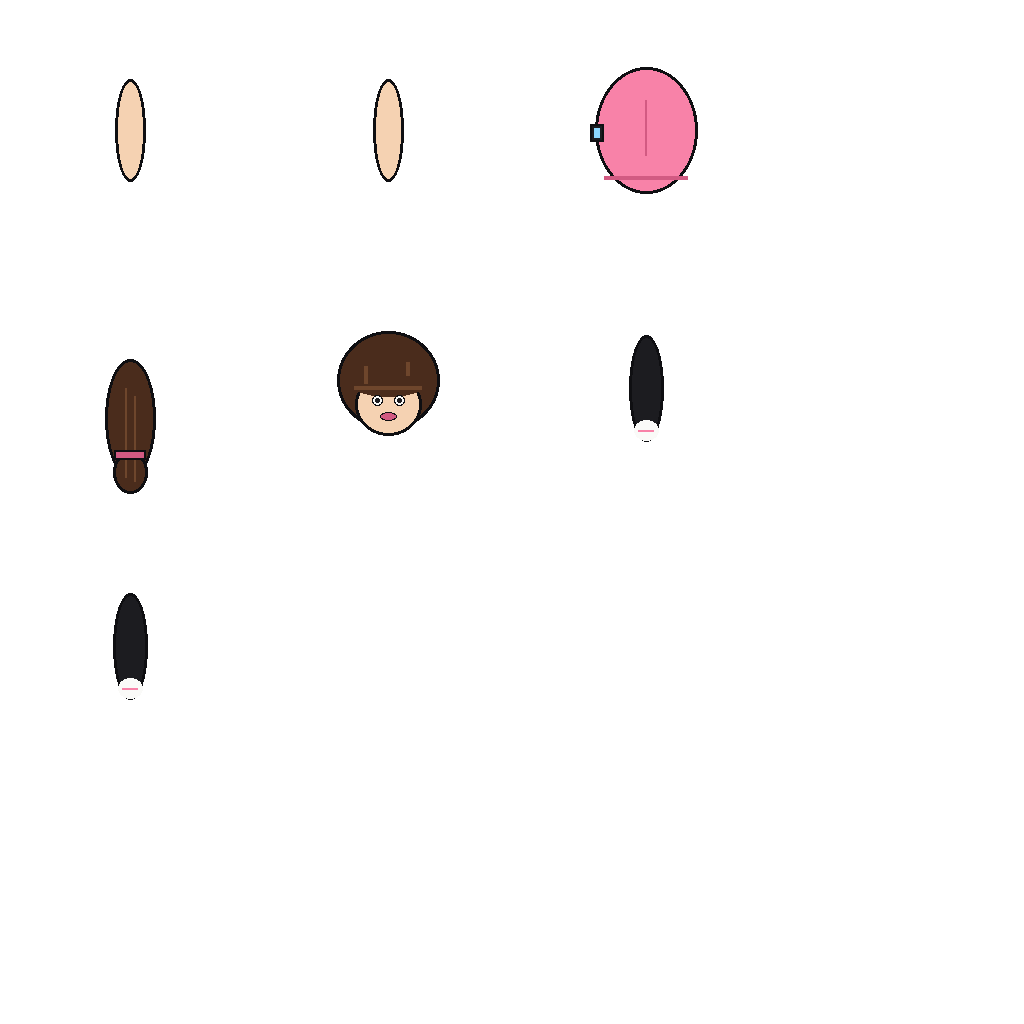
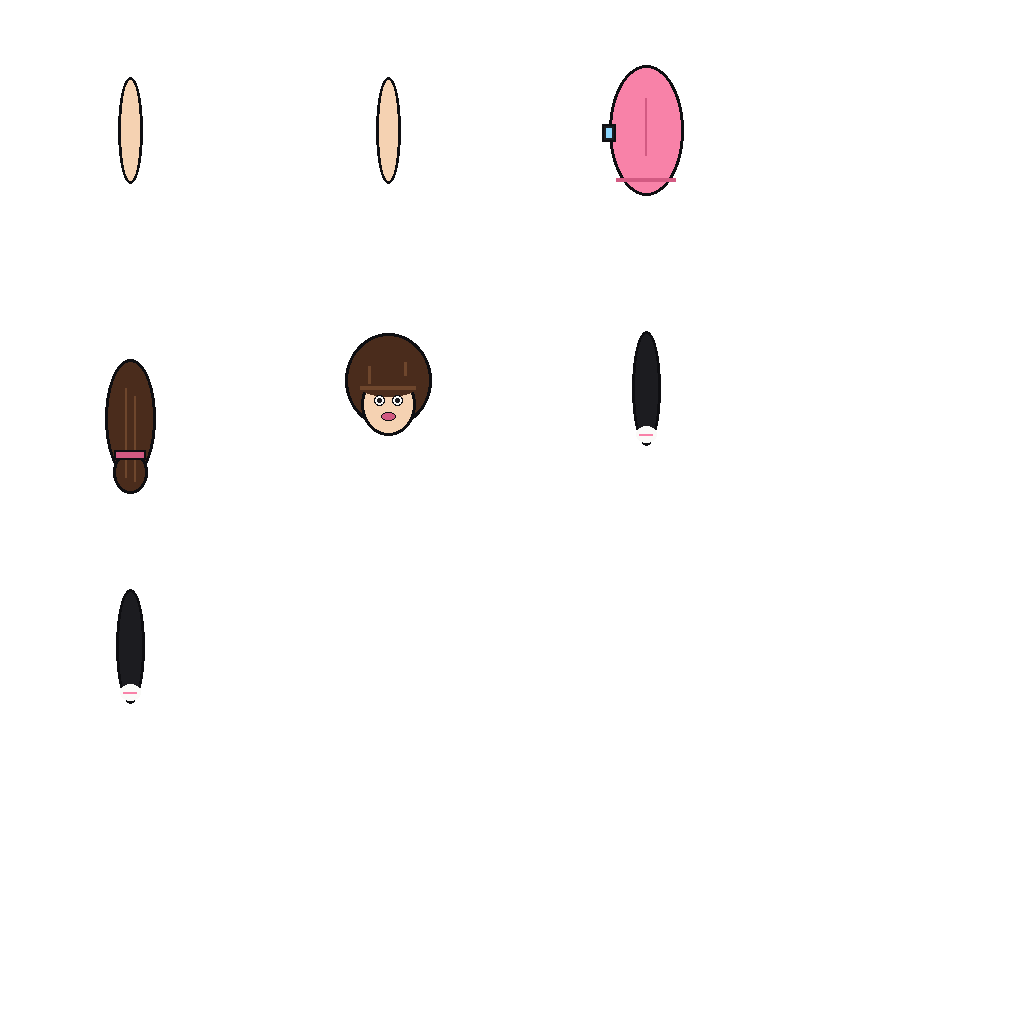
Slim down Katie spine rig
She read chubbier than the design (athletic runner in pink athleisure)
because the torso ellipse was 96px wide. Tightened to 68px, narrowed
head and limbs to match, pulled arm bones inward 10px to sit on the
new silhouette.

diff --git a/scripts/spine/draw_characters_parts.py b/scripts/spine/draw_characters_parts.py
@@ -235,38 +235,38 @@ K_SCREEN = (140, 215, 255, 255)
 def katie_body():
     img = new_part()
     cx, cy = W // 2, H // 2
-    # Pink Lululemon torso
-    filled_outlined_ellipse(img, cx, cy, 48, 60, K_PINK)
+    # Pink Lululemon torso — slim athletic build (narrower than v1)
+    filled_outlined_ellipse(img, cx, cy, 34, 62, K_PINK)
     # Crop top hem
-    rect(img, cx - 42, cy + 46, 84, 4, K_PINK_S)
+    rect(img, cx - 30, cy + 48, 60, 4, K_PINK_S)
     # Subtle midline shading
-    rect(img, cx - 1, cy - 30, 2, 56, K_PINK_S)
-    # Apple Watch on left wrist
-    filled_outlined_rect(img, cx - 54, cy - 4, 10, 14, K_BLACK, OUTLINE, 2)
-    rect(img, cx - 52, cy - 2, 6, 10, K_SCREEN)
+    rect(img, cx - 1, cy - 32, 2, 58, K_PINK_S)
+    # Apple Watch tucked just outside the torso silhouette
+    filled_outlined_rect(img, cx - 42, cy - 4, 10, 14, K_BLACK, OUTLINE, 2)
+    rect(img, cx - 40, cy - 2, 6, 10, K_SCREEN)
     return img
 
 
 def katie_head():
     img = new_part()
     cx, cy = W // 2, H // 2
-    # Crown of brunette hair
-    filled_outlined_ellipse(img, cx, cy - 8, 48, 46, K_HAIR)
-    # Face oval (chin pointing toward bottom = toward enemies)
-    filled_outlined_ellipse(img, cx, cy + 16, 30, 28, K_SKIN)
+    # Crown of brunette hair — narrower
+    filled_outlined_ellipse(img, cx, cy - 8, 40, 44, K_HAIR)
+    # Face oval — slimmer
+    filled_outlined_ellipse(img, cx, cy + 16, 24, 28, K_SKIN)
     # Bangs
-    ellipse(img, cx, cy - 4, 36, 12, K_HAIR)
-    rect(img, cx - 34, cy - 2, 68, 4, K_HAIR_H)
+    ellipse(img, cx, cy - 4, 30, 12, K_HAIR)
+    rect(img, cx - 28, cy - 2, 56, 4, K_HAIR_H)
     # Eyes
-    filled_outlined_ellipse(img, cx - 11, cy + 12, 4, 4, K_WHITE, OUTLINE, 1)
-    filled_outlined_ellipse(img, cx + 11, cy + 12, 4, 4, K_WHITE, OUTLINE, 1)
-    ellipse(img, cx - 11, cy + 12, 2, 2, K_BLACK)
-    ellipse(img, cx + 11, cy + 12, 2, 2, K_BLACK)
+    filled_outlined_ellipse(img, cx - 9, cy + 12, 4, 4, K_WHITE, OUTLINE, 1)
+    filled_outlined_ellipse(img, cx + 9, cy + 12, 4, 4, K_WHITE, OUTLINE, 1)
+    ellipse(img, cx - 9, cy + 12, 2, 2, K_BLACK)
+    ellipse(img, cx + 9, cy + 12, 2, 2, K_BLACK)
     # Lips
-    filled_outlined_ellipse(img, cx, cy + 28, 7, 3, K_PINK_S, OUTLINE, 1)
+    filled_outlined_ellipse(img, cx, cy + 28, 6, 3, K_PINK_S, OUTLINE, 1)
     # Hair highlights
-    rect(img, cx - 24, cy - 22, 4, 18, K_HAIR_H)
-    rect(img, cx + 18, cy - 26, 4, 14, K_HAIR_H)
+    rect(img, cx - 20, cy - 22, 3, 18, K_HAIR_H)
+    rect(img, cx + 16, cy - 26, 3, 14, K_HAIR_H)
     return img
 
 
@@ -286,18 +286,19 @@ def katie_ponytail():
 def katie_arm():
     img = new_part()
     cx, cy = W // 2, H // 2
-    filled_outlined_ellipse(img, cx, cy, 12, 48, K_SKIN)
+    # Slim toned arm
+    filled_outlined_ellipse(img, cx, cy, 9, 50, K_SKIN)
     return img
 
 
 def katie_leg():
     img = new_part()
     cx, cy = W // 2, H // 2
-    # Black leggings
-    filled_outlined_ellipse(img, cx, cy, 14, 50, K_BLACK)
+    # Slim leggings
+    filled_outlined_ellipse(img, cx, cy, 11, 54, K_BLACK)
     # White sneaker tip
-    ellipse(img, cx, cy + 42, 12, 10, K_WHITE)
-    rect(img, cx - 8, cy + 42, 16, 2, K_PINK)
+    ellipse(img, cx, cy + 46, 10, 8, K_WHITE)
+    rect(img, cx - 7, cy + 46, 14, 2, K_PINK)
     return img
 
 
